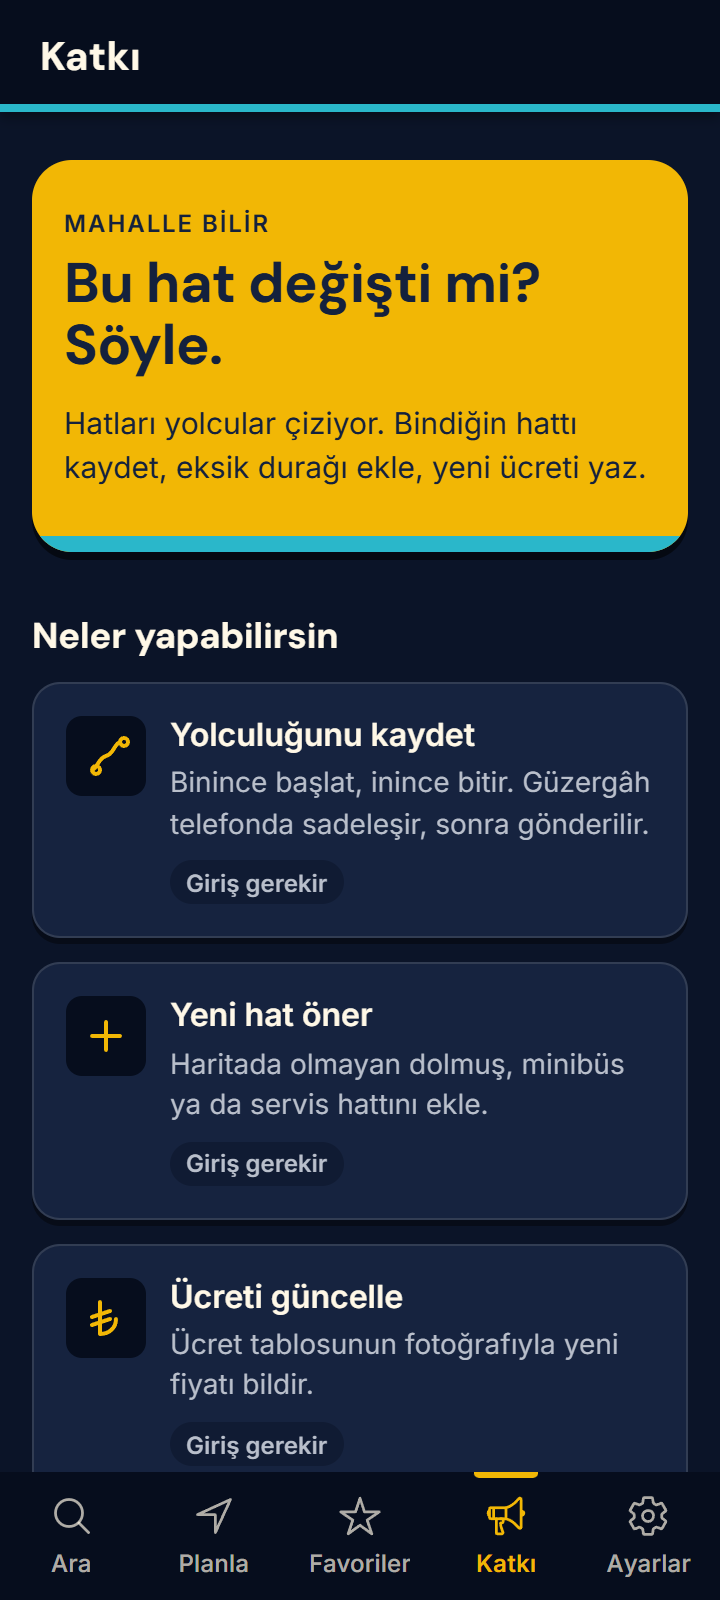
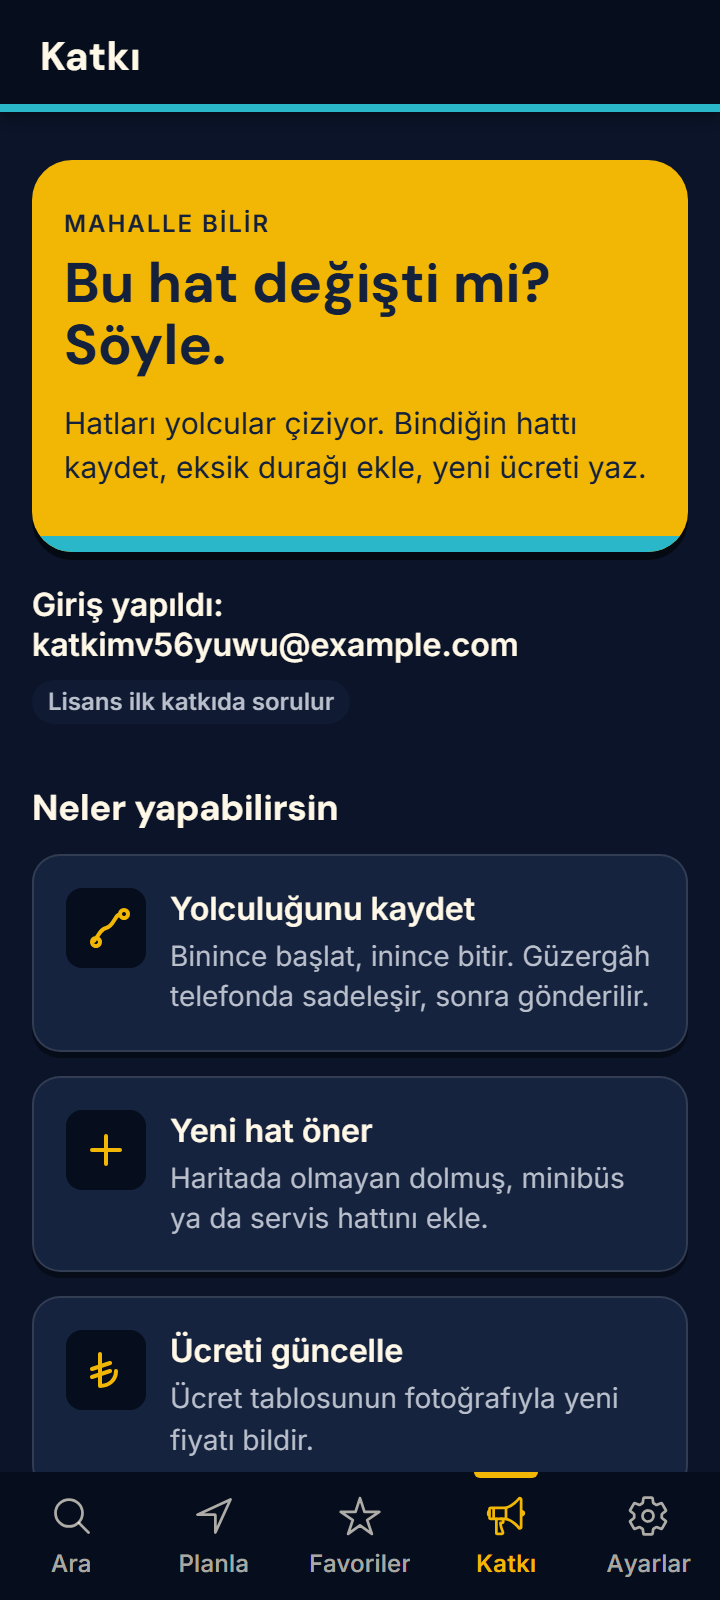
test(mobile-e2e): add the sign-in and contributor scenario with phase 3 screenshots

diff --git a/inecekvar/apps/mobile-e2e/src/sign-in-contribute.spec.ts b/inecekvar/apps/mobile-e2e/src/sign-in-contribute.spec.ts
@@ -1,0 +1,305 @@
+import { type APIRequestContext, expect, type Locator, type Page, test } from '@playwright/test';
+import { execFileSync } from 'node:child_process';
+import { join } from 'node:path';
+
+/**
+ * Sign-in and contributor tools against the running API (ADR-0035): registration with the
+ * mailed link (read from Mailpit), the licence dialog, a recorded ride with a marked stop, a
+ * fare proposal with a photo through the presigned upload, and the proposal list after a
+ * moderator decision. Environment: IV_E2E_API (API origin), IV_E2E_MAIL (Mailpit web origin),
+ * IV_E2E_PSQL_CONTAINER (Postgres container used to give the second account the moderator
+ * role; without it the moderation step is skipped). The approval publishes a new line
+ * version, so this file runs after the pack scenario (which expects the seeded version 0).
+ */
+const CITY = 'ornek-test-sehri';
+const SHOTS = join(__dirname, '../../../docs/screenshots/phase3');
+const API = (process.env['IV_E2E_API'] ?? 'http://127.0.0.1:57980') + '/v1';
+const MAIL = process.env['IV_E2E_MAIL'] ?? 'http://127.0.0.1:57825';
+const PSQL = process.env['IV_E2E_PSQL_CONTAINER'];
+const PASSWORD = 'dolmus-durak-2026!';
+const stamp = Date.now();
+const EMAIL = `katki${stamp.toString(36)}@example.com`;
+const MODERATOR = `mod${stamp.toString(36)}@example.com`;
+
+test.use({
+  serviceWorkers: 'block',
+  permissions: ['geolocation'],
+  geolocation: { latitude: 42.511, longitude: 34.012, accuracy: 5 },
+});
+
+async function shoot(page: Page, name: string, focus?: Locator): Promise<void> {
+  if (focus) await focus.evaluate((el) => el.scrollIntoView({ block: 'start' }));
+  for (const scheme of ['light', 'dark'] as const) {
+    await page.emulateMedia({ colorScheme: scheme, reducedMotion: 'reduce' });
+    await page.waitForTimeout(300);
+    await page.screenshot({ path: join(SHOTS, `${name}-${scheme}.png`) });
+  }
+  await page.emulateMedia({ colorScheme: 'light', reducedMotion: 'reduce' });
+}
+
+/** The newest magic-link token mailed to `to` (Mailpit HTTP API). */
+async function mailedToken(request: APIRequestContext, to: string, after = 0): Promise<string> {
+  for (let attempt = 0; attempt < 40; attempt++) {
+    const search = await request.get(`${MAIL}/api/v1/search`, {
+      params: { query: `to:"${to}"` },
+    });
+    const messages = ((await search.json()) as { messages?: { ID: string }[] }).messages ?? [];
+    if (messages.length > after) {
+      const message = await request.get(`${MAIL}/api/v1/message/${messages[0]?.ID}`);
+      const body = ((await message.json()) as { Text: string }).Text;
+      const token = /#token=([A-Za-z0-9_-]+)/.exec(body)?.[1];
+      if (token) return token;
+    }
+    await new Promise((resolve) => setTimeout(resolve, 250));
+  }
+  throw new Error('no magic link mail arrived');
+}
+
+/** A JPEG drawn in the page (a little fare board), as a file to upload. */
+async function fareBoardJpeg(page: Page): Promise<Buffer> {
+  const base64 = await page.evaluate(async () => {
+    const canvas = document.createElement('canvas');
+    canvas.width = 640;
+    canvas.height = 420;
+    const g = canvas.getContext('2d') as CanvasRenderingContext2D;
+    g.fillStyle = '#14213d';
+    g.fillRect(0, 0, 640, 420);
+    g.fillStyle = '#f2b705';
+    g.font = 'bold 44px sans-serif';
+    g.fillText('ÜCRET TARİFESİ', 40, 80);
+    g.font = '32px sans-serif';
+    g.fillStyle = '#fff8e7';
+    ['ORN-1  Tam  27,50 TL', 'ORN-1  Öğrenci  20,00 TL'].forEach((line, i) =>
+      g.fillText(line, 40, 170 + i * 70),
+    );
+    const blob = await new Promise<Blob>((resolve) =>
+      canvas.toBlob((b) => resolve(b as Blob), 'image/jpeg', 0.85),
+    );
+    const bytes = new Uint8Array(await blob.arrayBuffer());
+    let binary = '';
+    bytes.forEach((b) => (binary += String.fromCharCode(b)));
+    return btoa(binary);
+  });
+  return Buffer.from(base64, 'base64');
+}
+
+/** A second account through the API (bearer mode), promoted to moderator in the database. */
+async function moderatorToken(request: APIRequestContext): Promise<string> {
+  const registered = await request.post(`${API}/auth/register`, {
+    data: { email: MODERATOR, password: PASSWORD, mode: 'bearer' },
+  });
+  expect(registered.status()).toBe(202);
+  const token = await mailedToken(request, MODERATOR);
+  const verified = await request.post(`${API}/auth/magic-link/verify`, {
+    data: { token, mode: 'bearer', password: PASSWORD },
+  });
+  expect(verified.status()).toBe(200);
+  const access = ((await verified.json()) as { access_token: string }).access_token;
+  execFileSync('docker', [
+    'exec',
+    PSQL as string,
+    'psql',
+    '-U',
+    'inecekvar',
+    '-d',
+    'inecekvar',
+    '-c',
+    `update users set role = 'moderator' where email = '${MODERATOR}'`,
+  ]);
+  return access;
+}
+
+test('signs up with the mailed link, records a ride and sends proposals', async ({
+  page,
+  context,
+  request,
+}) => {
+  test.setTimeout(420_000);
+  const consoleErrors: string[] = [];
+  page.on('console', (message) => {
+    if (message.type() === 'error') consoleErrors.push(message.text());
+  });
+
+  await page.goto('/ara');
+  await page.evaluate((city) => localStorage.setItem('CapacitorStorage.iv.city', city), CITY);
+
+  // Guests are sent to sign in when they open a contributor tool.
+  await page.goto('/katki/kayit');
+  await expect(page).toHaveURL(/\/giris\?sonra=%2Fkatki%2Fkayit$/);
+  await expect(page.locator('iv-signin-page h1')).toHaveText('Giriş yap');
+  await page.locator('#iv-signin-email').fill(EMAIL);
+  await shoot(page, 'giris');
+
+  // Register; the account opens from the mailed link with the same password.
+  await page.getByRole('link', { name: 'Kaydol' }).click();
+  await page.locator('#iv-register-email').fill(EMAIL);
+  await page.locator('#iv-register-password').fill(PASSWORD);
+  await page.getByRole('button', { name: 'Hesap oluştur' }).click();
+  await expect(page.locator('[data-state="register-sent"]')).toBeVisible();
+  expect(page.url()).not.toContain(PASSWORD);
+
+  const token = await mailedToken(request, EMAIL);
+  await page.goto(`/giris/baglanti#token=${token}`);
+  await expect(page.locator('[data-view="password"]')).toBeVisible();
+  // The token left the address bar before anything else ran.
+  expect(page.url()).not.toContain('token');
+  await page.locator('#iv-link-password').fill(PASSWORD);
+  await page.getByRole('button', { name: 'Hesabı aç' }).click();
+  await expect(page).toHaveURL(/\/katki$/);
+  await expect(page.locator('[data-state="signed-in"]')).toContainText(EMAIL);
+  const stored = await page.evaluate(() => JSON.stringify({ ...localStorage, ...sessionStorage }));
+  expect(stored).not.toContain(PASSWORD);
+  expect(stored).not.toContain(token);
+  await shoot(page, 'katki');
+
+  // The magic-link form (another device, or a forgotten password).
+  await page.goto('/giris');
+  await page.getByRole('button', { name: 'E-posta bağlantısıyla' }).click();
+  await page.locator('#iv-signin-email').fill(EMAIL);
+  await page.getByRole('button', { name: 'Bağlantı gönder' }).click();
+  await expect(page.locator('[data-state="link-sent"]')).toBeVisible();
+  await shoot(page, 'giris-link-sent');
+
+  // Record a ride along ORN-1 with one marked stop.
+  await page.goto('/katki/kayit');
+  await expect(page.locator('[data-view="idle"]')).toBeVisible();
+  await expect(page.locator('iv-city-picker .trigger-name')).toContainText('ÖRNEK');
+  await shoot(page, 'katki-kayit-idle');
+  await page.getByRole('button', { name: 'Kaydı başlat' }).click();
+  await expect(page.locator('[data-view="recording"]')).toBeVisible();
+  for (let i = 0; i < 36; i++) {
+    await context.setGeolocation({
+      latitude: 42.511 + Math.sin(i / 6) * 0.0012,
+      longitude: 34.012 + i * 0.0016,
+      accuracy: 6,
+    });
+    await page.waitForTimeout(60);
+    if (i === 14) {
+      await page.getByRole('button', { name: 'Durak işaretle' }).click();
+      await page.locator('#iv-rec-name').fill('Fırın önü');
+      await page.getByRole('button', { name: 'Kaydet' }).click();
+    }
+  }
+  await expect(page.locator('[data-stat="points"]')).toHaveText('36');
+  await shoot(page, 'katki-kayit-recording');
+  await page.getByRole('button', { name: 'Bitir' }).click();
+  await expect(page.locator('[data-view="review"]')).toBeVisible();
+  await expect(page.locator('#iv-rec-stop-0')).toHaveValue('Fırın önü');
+  await expect(page.locator('iv-recorder-page iv-map')).toHaveAttribute(
+    'data-status',
+    /^(ready|no-basemap|failed)$/,
+    { timeout: 30_000 },
+  );
+  await shoot(page, 'katki-kayit-review');
+
+  // First submission: the licence dialog, then the upload.
+  const traceRequest = page.waitForRequest(
+    (r) => r.url().endsWith('/api/v1/traces') && r.method() === 'POST',
+  );
+  await page.getByRole('button', { name: 'İzi gönder' }).click();
+  const dialog = page.getByRole('dialog');
+  await expect(dialog).toContainText('Katkıların açık veri olur');
+  await shoot(page, 'katki-lisans');
+  await dialog.getByRole('button', { name: 'Kabul ediyorum' }).click();
+  const sent = (await traceRequest).postDataJSON() as Record<string, unknown>;
+  expect(Object.keys(sent).sort()).toEqual(['city', 'ended_at', 'points', 'started_at']);
+  expect((sent['points'] as unknown[]).length).toBeLessThanOrEqual(36);
+  await expect(page.locator('[data-view="uploaded"]')).toBeVisible();
+  expect(
+    await page.evaluate(() => localStorage.getItem('CapacitorStorage.iv.trace-draft')),
+  ).toBeNull();
+
+  // A fare proposal with a photo of the fare table (presigned PUT to object storage).
+  await page.goto(`/katki/oneri?tur=fare_update&hat=ornek-hat-1&city=${CITY}`);
+  await expect(page.locator('[data-target="line"]')).toContainText('ORN-1');
+  // Differs from the seeded fare and, mostly, from a fare approved by an earlier run.
+  await page.locator('#iv-fare').fill(`${27 + (stamp % 7)},50`);
+  const photoPut = page.waitForRequest(
+    (r) => r.method() === 'PUT' && r.url().includes('/incoming/'),
+  );
+  await page.locator('input[type="file"]').setInputFiles({
+    name: 'tarife.jpg',
+    mimeType: 'image/jpeg',
+    buffer: await fareBoardJpeg(page),
+  });
+  const put = await photoPut;
+  expect(put.headers()['authorization']).toBeUndefined();
+  expect(put.headers()['cookie']).toBeUndefined();
+  await expect(page.locator('[data-photo="done"]')).toBeVisible();
+  await shoot(page, 'katki-oneri', page.locator('iv-proposal-page .iv-page'));
+  await shoot(page, 'katki-foto', page.locator('iv-proposal-page fieldset.photo'));
+
+  // The worker takes the photo once its presign window has passed (shortened for this run);
+  // the form holds the send button until then, so no attempt is wasted on the daily quota.
+  const submit = page.locator('iv-proposal-page button[type="submit"]');
+  await expect(submit).toHaveText(/Fotoğraf işleniyor/);
+  await expect(submit).toBeDisabled();
+  await expect(submit).toHaveText(/Öneriyi gönder/, { timeout: 150_000 });
+  for (let attempt = 0; attempt < 3; attempt++) {
+    await submit.click();
+    const outcome = await Promise.race([
+      page.waitForURL(/\/katki\/onerilerim\?yeni=1$/, { timeout: 8_000 }).then(() => 'sent'),
+      page
+        .getByText('Fotoğraf hâlâ işleniyor')
+        .waitFor({ timeout: 8_000 })
+        .then(() => 'pending'),
+    ]).catch(() => 'pending');
+    if (outcome === 'sent') break;
+    await page.waitForTimeout(20_000);
+  }
+  await expect(page).toHaveURL(/\/katki\/onerilerim\?yeni=1$/);
+
+  // Two more proposals: an hours update and a new stop.
+  await page.goto(`/katki/oneri?tur=update_line&hat=ornek-hat-2&city=${CITY}`);
+  await expect(page.locator('[data-target="line"]')).toContainText('ORN-2');
+  await page.locator('#iv-hours').fill('06:30-23:30, pazar 08:00-22:00');
+  await page.getByRole('button', { name: 'Öneriyi gönder' }).click();
+  await expect(page).toHaveURL(/\/katki\/onerilerim\?yeni=1$/);
+  await page.goto('/katki/oneri?tur=new_stop');
+  await page.locator('#iv-stop-name').fill('Fırın önü');
+  await page.getByRole('button', { name: 'Konumumu kullan' }).click();
+  await page.getByRole('button', { name: 'Öneriyi gönder' }).click();
+  await expect(page).toHaveURL(/\/katki\/onerilerim\?yeni=1$/);
+
+  if (PSQL) {
+    const moderator = await moderatorToken(request);
+    const headers = { Authorization: `Bearer ${moderator}` };
+    const queue = await request.get(`${API}/moderation/edits`, {
+      headers,
+      params: { state: 'pending' },
+    });
+    expect(queue.status()).toBe(200);
+    const edits = (await queue.json()) as { id: string; kind: string }[];
+    const fare = edits.find((e) => e.kind === 'fare_update');
+    const stop = edits.find((e) => e.kind === 'new_stop');
+    expect(fare && stop).toBeTruthy();
+    expect(
+      (
+        await request.post(`${API}/moderation/edits/${fare?.id}/approve`, { headers, data: {} })
+      ).status(),
+    ).toBe(200);
+    expect(
+      (
+        await request.post(`${API}/moderation/edits/${stop?.id}/reject`, {
+          headers,
+          data: { reason: 'Bu durak zaten var: Durak 1-2 ile aynı yer.' },
+        })
+      ).status(),
+    ).toBe(200);
+  }
+
+  await page.goto('/katki/onerilerim');
+  await expect(page.locator('.list > li')).toHaveCount(3);
+  if (PSQL) {
+    await expect(page.locator('.list > li[data-state="rejected"] .reason')).toContainText(
+      'Bu durak zaten var',
+    );
+    await expect(page.locator('.list > li[data-state="approved"]')).toHaveCount(1);
+  }
+  await shoot(page, 'katki-onerilerim');
+
+  const unexpected = consoleErrors.filter(
+    (text) => !/401|tiles\.inecekvar\.app|ERR_NAME_NOT_RESOLVED|Failed to load resource/.test(text),
+  );
+  expect(unexpected).toEqual([]);
+});
